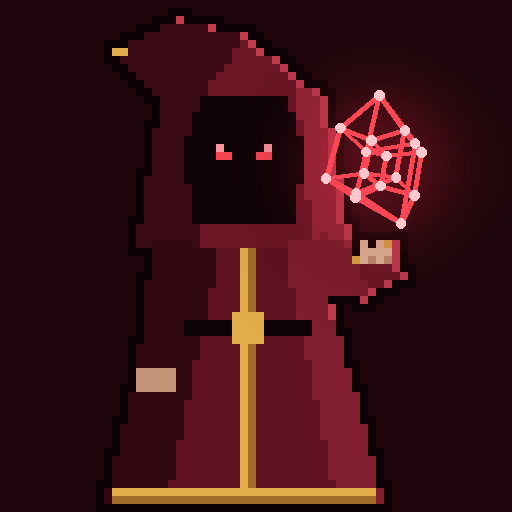
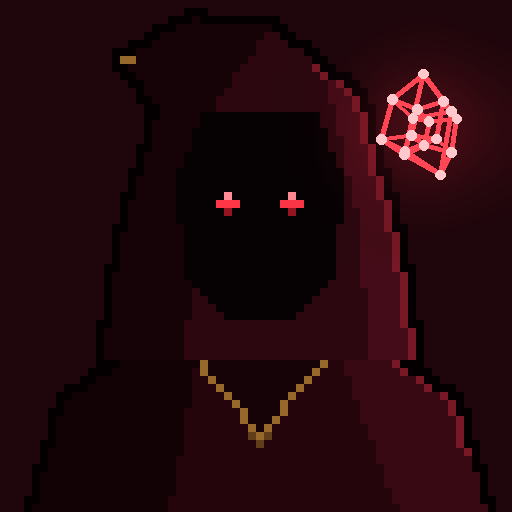
Arkan is darker and shown as a portrait: the head in the hood and the shoulders
The tesseract floats by his right shoulder (the hand is out of the picture);
the same numbers in WizardView (Android) and MoonyWidget (desktop).

Claude-Session: https://claude.ai/code/session_01XihUPUTLF7rRqvjDXyacEy

diff --git a/android/art/wizard.py b/android/art/wizard.py
@@ -15,65 +15,55 @@ HERE = pathlib.Path(__file__).resolve().parent
 OUT = HERE.parent / "res" / "drawable-nodpi"
 N = 64
 SCALE = 8
-HAND = (47.5 / N, 20.5 / N)   # the middle of the tesseract
+HAND = (53.0 / N, 16.0 / N)   # the middle of the tesseract: it floats by the right shoulder
+SIZE = 30                     # the size of the tesseract in grid pixels
 
-HOOD_DARK, HOOD, HOOD_LIGHT = (58, 10, 22), (110, 22, 38), (150, 38, 56)
-ROBE_DARK, ROBE, ROBE_LIGHT = (50, 8, 18), (96, 18, 32), (128, 30, 46)
-SHADOW = (14, 3, 7)
-GOLD, GOLD_DARK = (226, 172, 74), (160, 108, 40)
-EYE = (255, 70, 84)
-SKIN, SKIN_DARK = (232, 190, 160), (196, 146, 118)
+# dark burgundy: the wizard is mostly shadow, lit a little by the red tesseract
+HOOD_DARK, HOOD, HOOD_LIGHT = (22, 3, 8), (44, 7, 15), (68, 12, 24)
+ROBE_DARK, ROBE, ROBE_LIGHT = (18, 2, 6), (36, 5, 12), (56, 9, 19)
+SHADOW = (6, 1, 3)
+GOLD, GOLD_DARK = (150, 104, 44), (96, 62, 26)
+EYE = (255, 54, 70)
+OUTLINE = (4, 0, 2)
 
 
 def body():
+    """only the head in a big hood and the shoulders, like a portrait"""
     img = Image.new("RGBA", (N, N), (0, 0, 0, 0))
     d = ImageDraw.Draw(img)
-    # the robe: a wide cone to the ground
-    d.polygon([(22, 28), (38, 28), (47, 62), (13, 62)], fill=ROBE)
-    d.polygon([(22, 28), (27, 28), (20, 62), (13, 62)], fill=ROBE_DARK)
-    d.polygon([(35, 28), (38, 28), (47, 62), (42, 62)], fill=ROBE_LIGHT)
-    # gold trim down the middle and on the hem
-    d.line([(30, 30), (30, 61)], fill=GOLD)
-    d.line([(31, 30), (31, 61)], fill=GOLD_DARK)
-    d.line([(14, 61), (46, 61)], fill=GOLD)
-    d.line([(14, 62), (46, 62)], fill=GOLD_DARK)
-    # a belt
-    d.rectangle((23, 40, 38, 41), fill=SHADOW)
-    d.rectangle((29, 39, 32, 42), fill=GOLD)
-    # the hood: a pointed cap falling back to the left, wide around the face
-    d.polygon([(30, 4), (22, 2), (14, 6), (20, 12), (17, 30), (43, 30), (40, 12)], fill=HOOD)
-    d.polygon([(30, 4), (22, 2), (14, 6), (20, 12), (17, 30), (24, 30), (24, 12)], fill=HOOD_DARK)
-    d.polygon([(37, 10), (40, 12), (43, 30), (39, 30)], fill=HOOD_LIGHT)
-    d.point([(14, 6), (15, 6)], fill=GOLD)  # a gold tip
-    # the dark opening and the glowing eyes
-    d.polygon([(25, 12), (35, 12), (37, 18), (36, 27), (24, 27), (23, 18)], fill=SHADOW)
-    for x in (27, 28, 32, 33):
-        d.point((x, 19), fill=EYE)
-    d.point([(27, 18), (33, 18)], fill=(255, 150, 160))
-    # the left arm hanging down (dark side)
-    d.polygon([(19, 30), (23, 30), (22, 46), (17, 46)], fill=ROBE_DARK)
-    d.rectangle((17, 46, 21, 48), fill=SKIN_DARK)
-    # the right arm reaching out and up to hold the tesseract
-    d.polygon([(36, 30), (40, 29), (47, 33), (45, 37), (37, 35)], fill=ROBE_LIGHT)
-    d.polygon([(44, 32), (48, 30), (50, 34), (46, 36)], fill=HOOD)  # the wide sleeve end
-    d.line([(44, 32), (48, 30)], fill=GOLD)
-    # the open hand, palm up
-    d.rectangle((45, 31, 49, 32), fill=SKIN)
-    d.point([(45, 30), (47, 30), (49, 30)], fill=SKIN)
-    d.point([(46, 32), (48, 32)], fill=SKIN_DARK)
-    # a dark pixel outline around the whole figure, so it stands out on any background
+    # the shoulders and the top of the robe, cut by the bottom of the picture
+    d.polygon([(4, 64), (8, 50), (18, 43), (46, 43), (56, 50), (60, 64)], fill=ROBE)
+    d.polygon([(4, 64), (8, 50), (18, 43), (24, 43), (20, 64)], fill=ROBE_DARK)
+    d.polygon([(42, 43), (46, 43), (56, 50), (60, 64), (50, 64)], fill=ROBE_LIGHT)
+    # the collar with a gold edge
+    d.polygon([(22, 42), (32, 54), (42, 42)], fill=HOOD_DARK)
+    d.line([(22, 42), (32, 54), (42, 42)], fill=GOLD)
+    d.point([(32, 55), (31, 54), (33, 54)], fill=GOLD_DARK)
+    # the big hood with a pointed top falling back to the left
+    d.polygon([(33, 3), (24, 2), (15, 7), (20, 13), (15, 30), (13, 44), (51, 44), (49, 30), (44, 12)], fill=HOOD)
+    d.polygon([(33, 3), (24, 2), (15, 7), (20, 13), (15, 30), (13, 44), (22, 44), (24, 26), (26, 12)], fill=HOOD_DARK)
+    d.polygon([(41, 10), (44, 12), (49, 30), (51, 44), (46, 44), (45, 28)], fill=HOOD_LIGHT)
+    d.point([(15, 7), (16, 7)], fill=GOLD)
+    # the dark face with two glowing red eyes
+    d.polygon([(25, 14), (39, 14), (42, 22), (41, 34), (36, 39), (28, 39), (23, 34), (22, 22)], fill=SHADOW)
+    for x in (27, 28, 29, 35, 36, 37):
+        d.point((x, 25), fill=EYE)
+    d.point([(28, 24), (36, 24)], fill=(255, 140, 150))
+    d.point([(28, 26), (36, 26)], fill=(150, 20, 34))
+    # the outline around the whole figure
     alpha = img.getchannel("A")
     grown = alpha.filter(ImageFilter.MaxFilter(3))
     px, a, g = img.load(), alpha.load(), grown.load()
     for y in range(N):
         for x in range(N):
             if g[x, y] and not a[x, y]:
-                px[x, y] = (12, 2, 5, 255)
-    # a soft red rim light on the right edges (the light of the tesseract)
+                px[x, y] = OUTLINE + (255,)
+    # a faint red light from the tesseract on the right edges of the hood and the shoulder
     for y in range(N):
         for x in range(N - 1, 0, -1):
-            if a[x, y] and not a[min(N - 1, x + 1), y] and y < 40:
-                px[x, y] = (196, 60, 78, 255)
+            if a[x, y] and not a[min(N - 1, x + 1), y]:
+                if 8 <= y <= 56:
+                    px[x, y] = (120, 24, 38, 255)
                 break
     return img
 
@@ -101,11 +91,11 @@ def with_tesseract(base, t=0.6):
     glow = Image.new("RGBA", big.size, (0, 0, 0, 0))
     gd = ImageDraw.Draw(glow)
     cx, cy = HAND[0] * big.size[0], HAND[1] * big.size[1]
-    r = 12 * SCALE
+    r = 10 * SCALE
     gd.ellipse((cx - r, cy - r, cx + r, cy + r), fill=(255, 40, 60, 90))
     big.alpha_composite(glow.filter(ImageFilter.GaussianBlur(6 * SCALE)))
     d = ImageDraw.Draw(big)
-    pts, edges = tesseract_points(t, 38 * SCALE)
+    pts, edges = tesseract_points(t, SIZE * SCALE)
     for a, b in edges:
         d.line([(cx + pts[a][0], cy + pts[a][1]), (cx + pts[b][0], cy + pts[b][1])], fill=(255, 70, 84, 255), width=SCALE // 2 + 1)
     for p in pts:

diff --git a/android/src/com/sculkshoot/client/WizardView.java b/android/src/com/sculkshoot/client/WizardView.java
@@ -13,12 +13,12 @@ import android.os.SystemClock;
 import android.view.View;
 
 /**
- * Arkan, Vellora's AI pack builder: the burgundy wizard in a hood (res/drawable-nodpi/wizard_body.png, drawn by
- * art/wizard.py) with a red tesseract turning in four dimensions above his hand. The tesseract is projected
+ * Arkan, Vellora's AI pack builder: the burgundy wizard in a hood, only his head and shoulders (res/drawable-nodpi/wizard_body.png, drawn by
+ * art/wizard.py) with a red tesseract turning in four dimensions by his shoulder. The tesseract is projected
  * 4D -> 3D -> 2D every frame with the same numbers as art/wizard.py; it pulses faster while Arkan is working.
  */
 final class WizardView extends View {
-    private static final float HAND_X = 47.5f / 64, HAND_Y = 20.5f / 64, SIZE = 38f / 64, GLOW = 12f / 64;
+    private static final float HAND_X = 53f / 64, HAND_Y = 16f / 64, SIZE = 30f / 64, GLOW = 10f / 64;
     private static Bitmap body;
 
     private final Paint pixels = new Paint();

diff --git a/launcher/ui/widgets/MoonyWidget.cpp b/launcher/ui/widgets/MoonyWidget.cpp
@@ -26,7 +26,7 @@
 namespace {
 // Arkan, the wizard of Vellora Client: the picture is pixel art (resources/sculk_theme/wizard_body.png, drawn by
 // android/art/wizard.py), the tesseract above his hand is drawn every frame. HAND and SIZE are in parts of the picture.
-constexpr double s_handX = 47.5 / 64, s_handY = 20.5 / 64, s_tesseractSize = 38.0 / 64, s_glowSize = 12.0 / 64;
+constexpr double s_handX = 53.0 / 64, s_handY = 16.0 / 64, s_tesseractSize = 30.0 / 64, s_glowSize = 10.0 / 64;
 const QColor s_crimson(255, 70, 84);
 const QColor s_corner(255, 200, 205);
 
